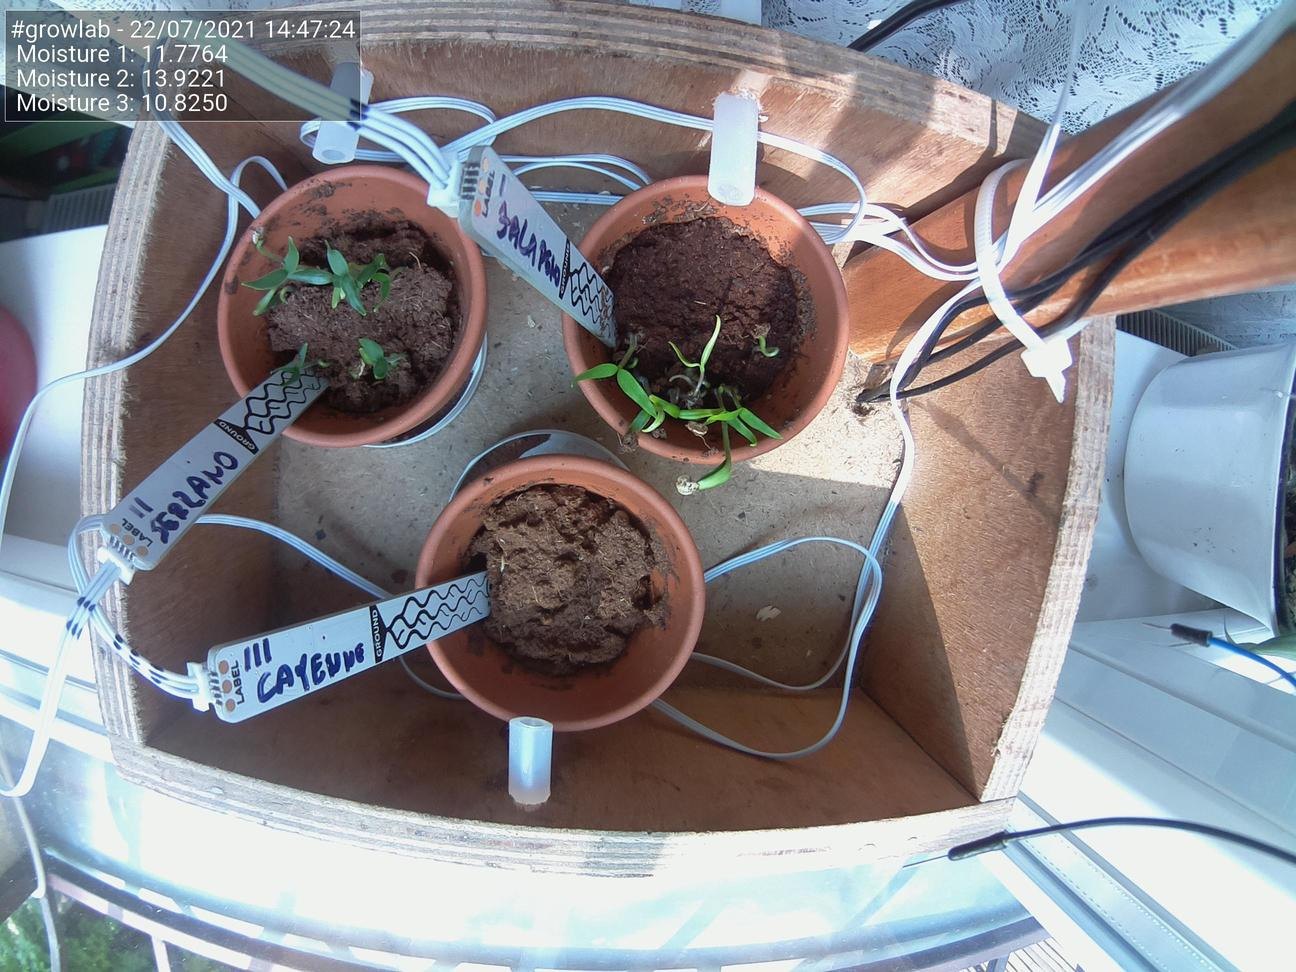
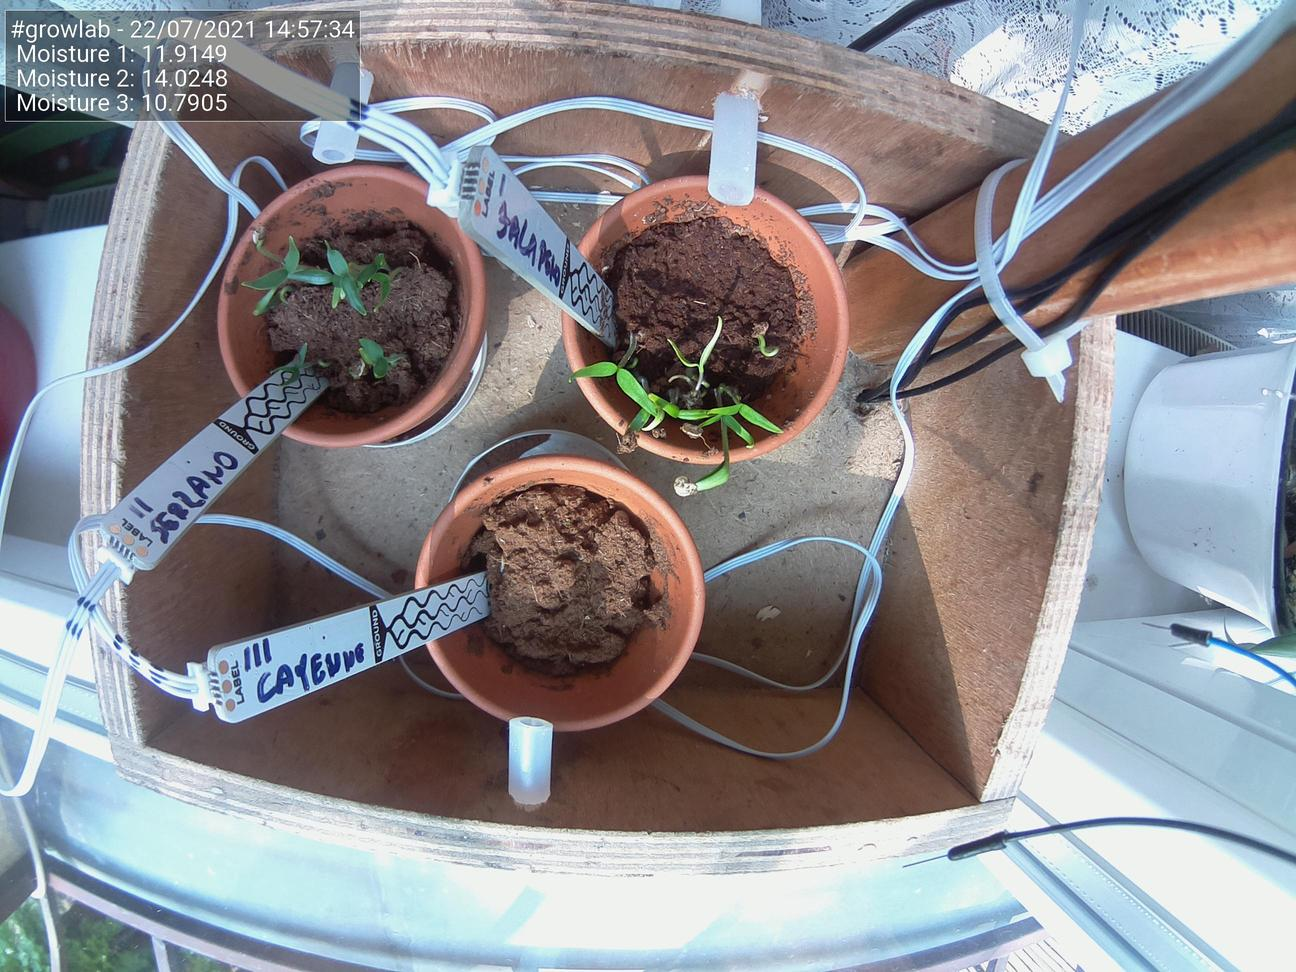
Update images at Thu 22 Jul 14:57:40 BST 2021

diff --git a/docs/index.html b/docs/index.html
@@ -51,25 +51,25 @@
                                 <td>Date</td>
                                 <td>22/07/2021</td>
                                 <td>Time</td>
-                                <td>14:47:24</td>
+                                <td>14:57:34</td>
                             </tr>
                             <tr>
                                 <td>Temperature</td>
                                 <td>N/A</td>
                                 <td>Moisture 1</td>
-                                <td>11.7764</td>
+                                <td>11.9149</td>
                             </tr>
                             <tr>
                                 <td>Humidity</td>
                                 <td>N/A</td>
                                 <td>Moisture 2</td>
-                                <td>13.9221</td>
+                                <td>14.0248</td>
                             </tr>
                             <tr>
                                 <td>Pressure</td>
                                 <td>N/A</td>
                                 <td>Moisture 3</td>
-                                <td>10.8250</td>
+                                <td>10.7905</td>
                             </tr>
                         </tbody>
                     </table>
@@ -77,7 +77,7 @@
 
                 <h5>Latest image</h5>
                 <div style="width: 85%;">
-                            <img class="figure-img img-fluid rounded" src="./preview.jpg?uid=1626961650.0925074">
+                            <img class="figure-img img-fluid rounded" src="./preview.jpg?uid=1626962260.1654387">
                 </div>
             </div>
         </div>
